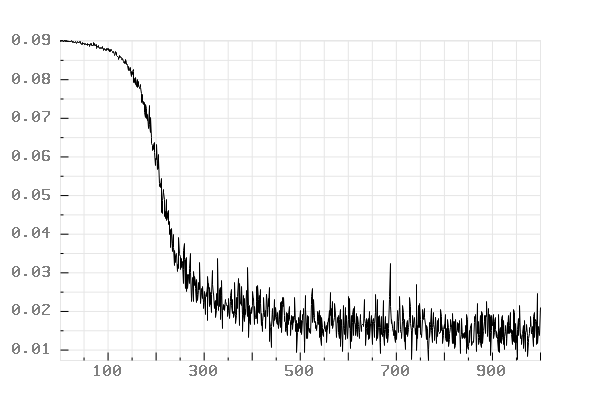
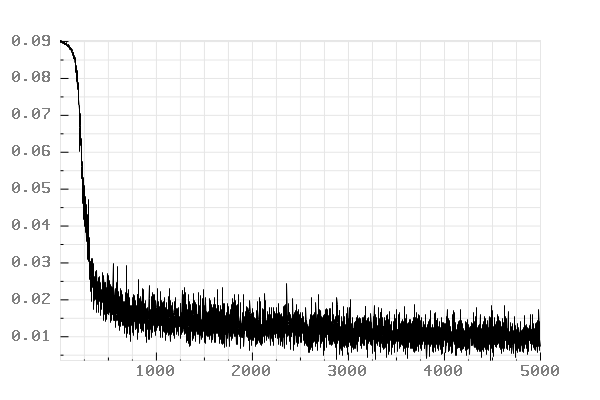
increased the number of iterations

diff --git a/NN-Library/NN-Library.cpp b/NN-Library/NN-Library.cpp
@@ -302,6 +302,7 @@ void MNIST()
 		std::cout << "\n";
 	}*/
 
+	int iterations = 5000;
 	int batchSize = 150;
 	NeuralNetwork* nn = new NeuralNetwork(batchSize);
 	srand(time(NULL));
@@ -355,7 +356,6 @@ void MNIST()
 
 	//nn->AddLayer(layer2);
 
-	int iterations = 1000;
 	std::vector<float> inputs;
 	int sizeOfImages = dataset.training_images[0].size();
 	int numberOfImages = dataset.training_images.size();
